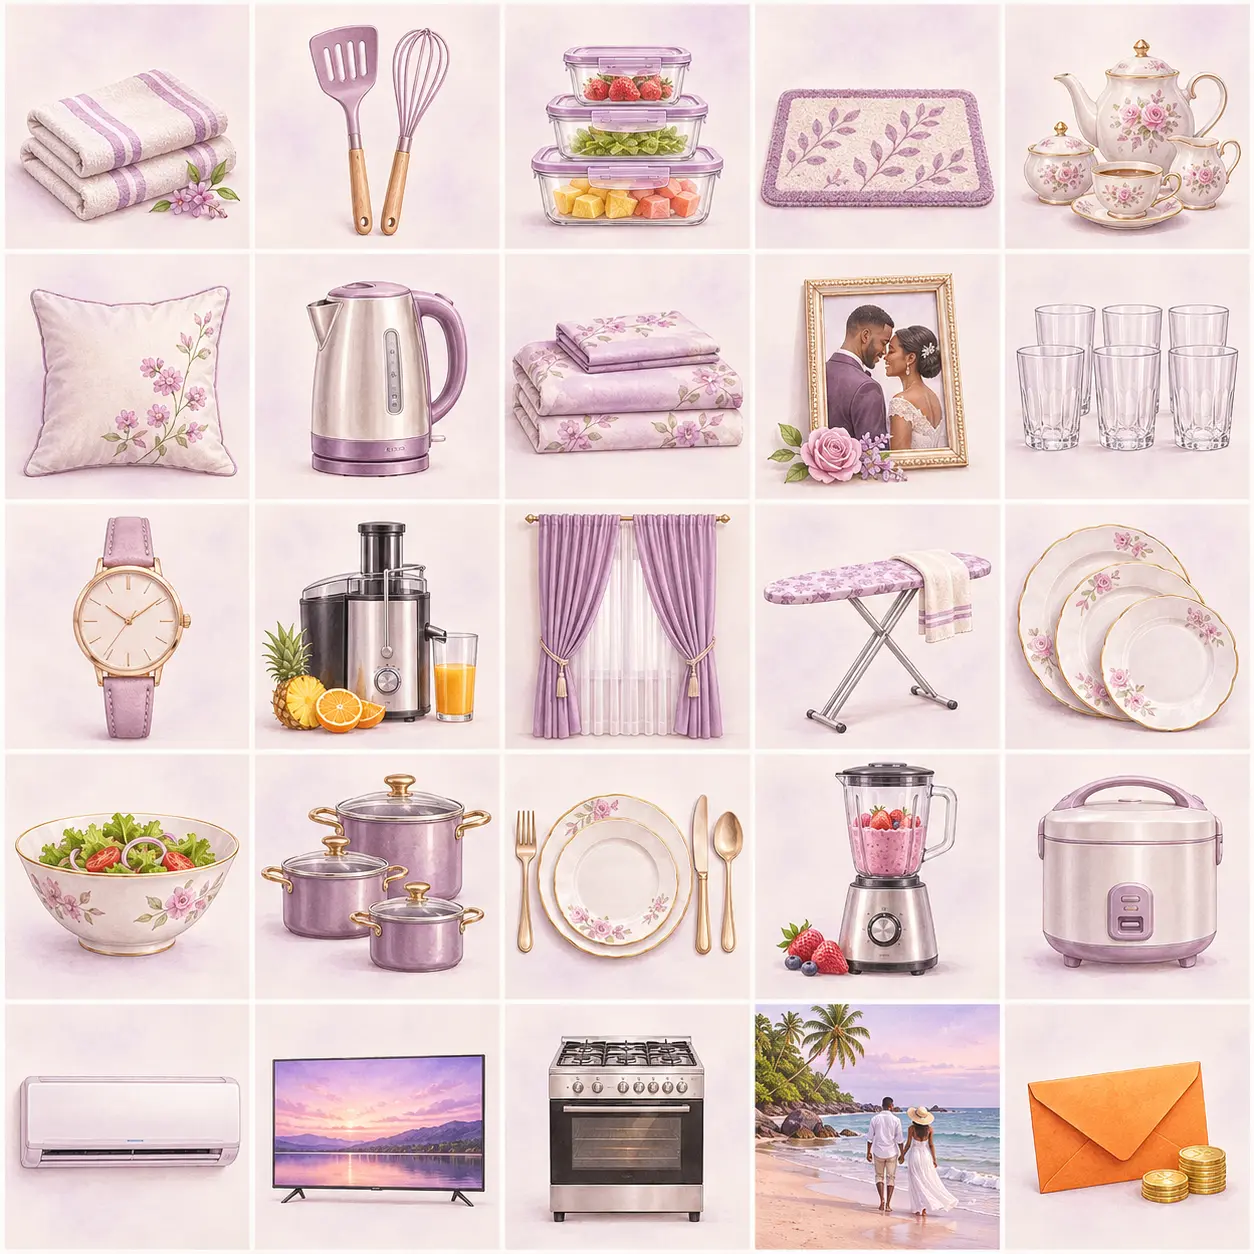
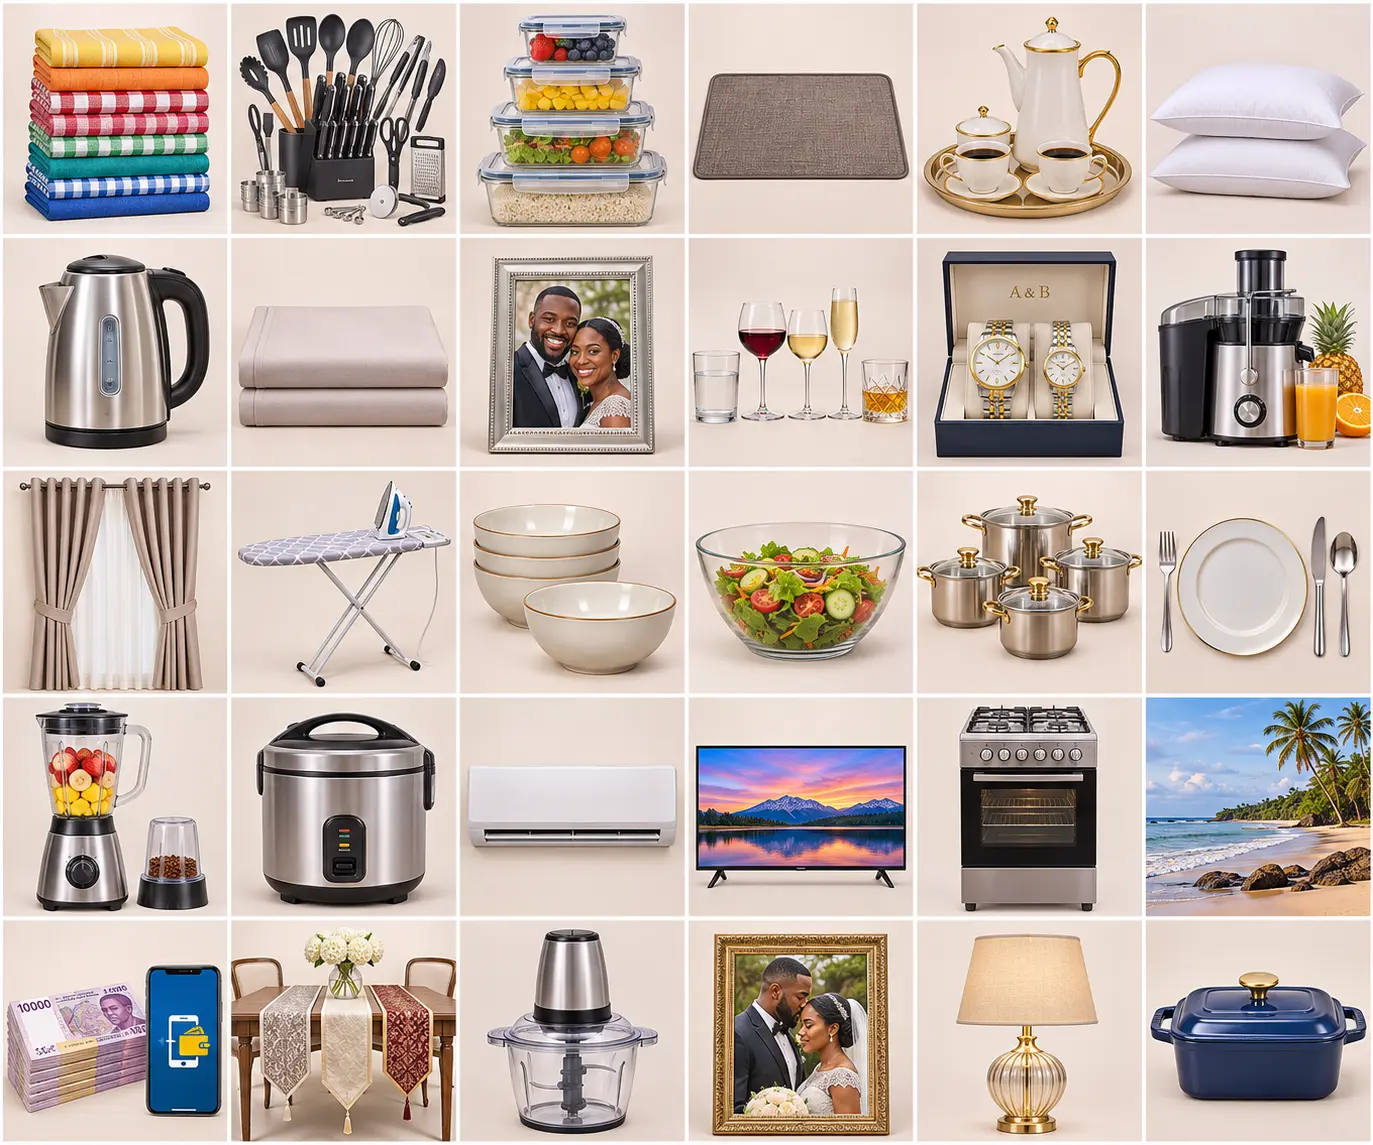
Améliore les images et options des cadeaux

diff --git a/src/config/gift-list.ts b/src/config/gift-list.ts
@@ -9,8 +9,10 @@ export type WeddingGift = {
 
 // Cadeaux à prix fixe ou à fourchette, selon le choix proposé aux invités.
 export const weddingGiftList: WeddingGift[] = [
-  { id: 'dish-towels', name: 'Lot de torchons de cuisine', imageIndex: 0, amount: 2000 },
-  { id: 'spatula-set', name: 'Lot de spatules et ustensiles', imageIndex: 1, amount: 3000 },
+  { id: 'dish-towels-8', name: 'Lot de 8 torchons de cuisine', imageIndex: 0, amount: 5000 },
+  { id: 'dish-towels-10', name: 'Lot de 10 torchons de cuisine', imageIndex: 0, amount: 7000 },
+  { id: 'spatula-set-18', name: 'Set de 18 pièces : spatules, cuillères et couteaux', imageIndex: 1, amount: 22500 },
+  { id: 'spatula-set-30', name: 'Set de 30 pièces : spatules, cuillères et couteaux', imageIndex: 1, amount: 30000 },
   { id: 'storage-boxes', name: 'Boîtes de conservation', imageIndex: 2, amount: 4000 },
   { id: 'kitchen-mat', name: 'Tapis de cuisine', imageIndex: 3, amount: 5000 },
   { id: 'coffee-set', name: 'Service à café', imageIndex: 4, amount: 5000 },
@@ -27,8 +29,8 @@ export const weddingGiftList: WeddingGift[] = [
   { id: 'natural-juice-extractor', name: 'Extracteur de jus naturel', imageIndex: 11, amount: 20000 },
   { id: 'curtains', name: 'Jolis rideaux', imageIndex: 12, amount: null, minAmount: 20000, maxAmount: 25000 },
   { id: 'ironing-board', name: 'Table à repasser', imageIndex: 13, amount: 25000 },
-  { id: 'plates-set', name: 'Un ensemble d’assiettes', imageIndex: 14, amount: 15000 },
-  { id: 'two-plates-sets', name: 'Deux ensembles d’assiettes', imageIndex: 14, amount: 30000 },
+  { id: 'plates-set', name: 'Un ensemble d’assiettes creuses (coupelles)', imageIndex: 14, amount: 15000 },
+  { id: 'two-plates-sets', name: 'Deux ensembles d’assiettes creuses (coupelles)', imageIndex: 14, amount: 30000 },
   { id: 'salad-bowl', name: 'Saladier', imageIndex: 15, amount: null, minAmount: 4500, maxAmount: 7500 },
   { id: 'pots', name: 'Jeu de marmites', imageIndex: 16, amount: null, minAmount: 35000, maxAmount: 45000 },
   { id: 'dishes-cutlery-dozen', name: 'Une douzaine de plats avec fourchettes, cuillères et couteaux', imageIndex: 17, amount: 20000 },
@@ -40,4 +42,6 @@ export const weddingGiftList: WeddingGift[] = [
   { id: 'cookstove', name: 'Cuisinière', imageIndex: 22, amount: null, minAmount: 80000, maxAmount: 95000 },
   { id: 'honeymoon-kribi', name: 'Voyage de noces à Kribi', imageIndex: 23, amount: null, minAmount: 100000, maxAmount: 115000 },
   { id: 'om-choice', name: 'Dépôt OM · montant au choix', imageIndex: 24, amount: null },
+  { id: 'table-runners', name: 'Set de chemins de table (4 pièces)', imageIndex: 25, amount: null, minAmount: 8000, maxAmount: 15000 },
+  { id: 'electric-chopper', name: 'Hachoir électrique multifonction', imageIndex: 26, amount: null, minAmount: 20000, maxAmount: 35000 },
 ]

diff --git a/src/styles/site.css b/src/styles/site.css
@@ -2323,7 +2323,7 @@ a {
 .gift-option { display: flex; flex-direction: column; min-height: 340px; padding: 24px; border: 1px solid #dfcde5; background: rgba(255,255,255,.92); box-shadow: 0 12px 32px rgba(69,32,84,.06); transition: transform .2s ease,border-color .2s ease,box-shadow .2s ease; }
 .gift-option--selected { transform: translateY(-4px); border-color: #b44c91; box-shadow: 0 16px 38px rgba(125,57,126,.14); }
 .gift-option__number { color: #bd72a8; font: 10px "DM Mono",monospace; }
-.gift-option__image { width: calc(100% + 48px); aspect-ratio: 1.3; flex: 0 0 auto; margin: 12px -24px 16px; background-color: #fbf7fb; background-image: url("/images/gift-catalog-grid.webp"); background-repeat: no-repeat; background-size: 500% 500%; border-bottom: 1px solid #eee5f0; }
+.gift-option__image { width: calc(100% + 48px); aspect-ratio: 1.3; flex: 0 0 auto; margin: 12px -24px 16px; background-color: #fbf7fb; background-image: url("/images/gift-catalog-grid.webp"); background-repeat: no-repeat; background-size: 600% 500%; border-bottom: 1px solid #eee5f0; }
 .gift-option h3 { margin: 0 0 8px; color: #4e2e62; font: 600 24px/1.05 "Cormorant Garamond",Georgia,serif; }
 .gift-option > strong { margin-top: auto; color: #a44384; font: 500 16px/1.4 "DM Mono",monospace; }
 .gift-option button { margin-top: 16px; padding: 12px 14px; border: 1px solid #a95894; background: transparent; color: #733a78; font: 9px "DM Mono",monospace; letter-spacing: .08em; text-transform: uppercase; cursor: pointer; }

diff --git a/src/sections/GiftRegistrySection.tsx b/src/sections/GiftRegistrySection.tsx
@@ -9,7 +9,7 @@ const giftPrice = (gift: WeddingGift): string => {
   return gift.amount === null ? 'Montant au choix' : `${formatAmount(gift.amount)} FCFA`
 }
 const giftImagePosition = (imageIndex: number): React.CSSProperties => ({
-  backgroundPosition: `${(imageIndex % 5) * 25}% ${Math.floor(imageIndex / 5) * 25}%`,
+  backgroundPosition: `${(imageIndex % 6) * 20}% ${Math.floor(imageIndex / 6) * 25}%`,
 })
 
 const GiftRegistrySection: FC = () => {
